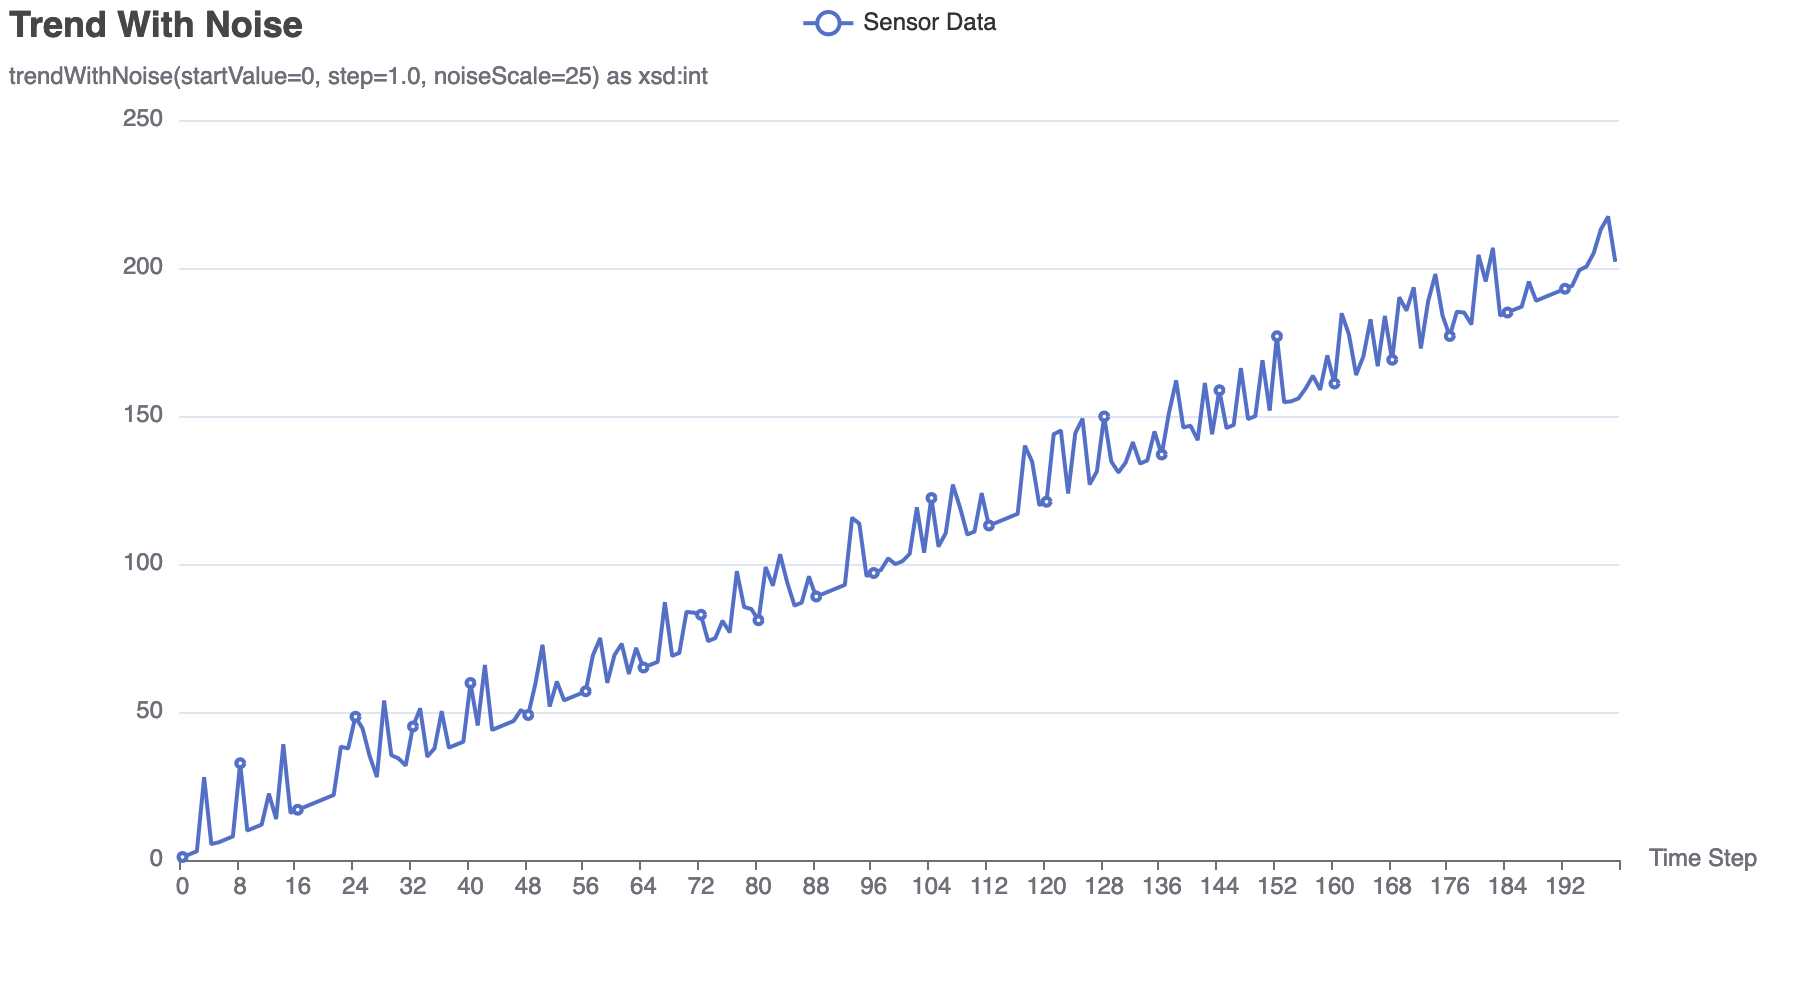
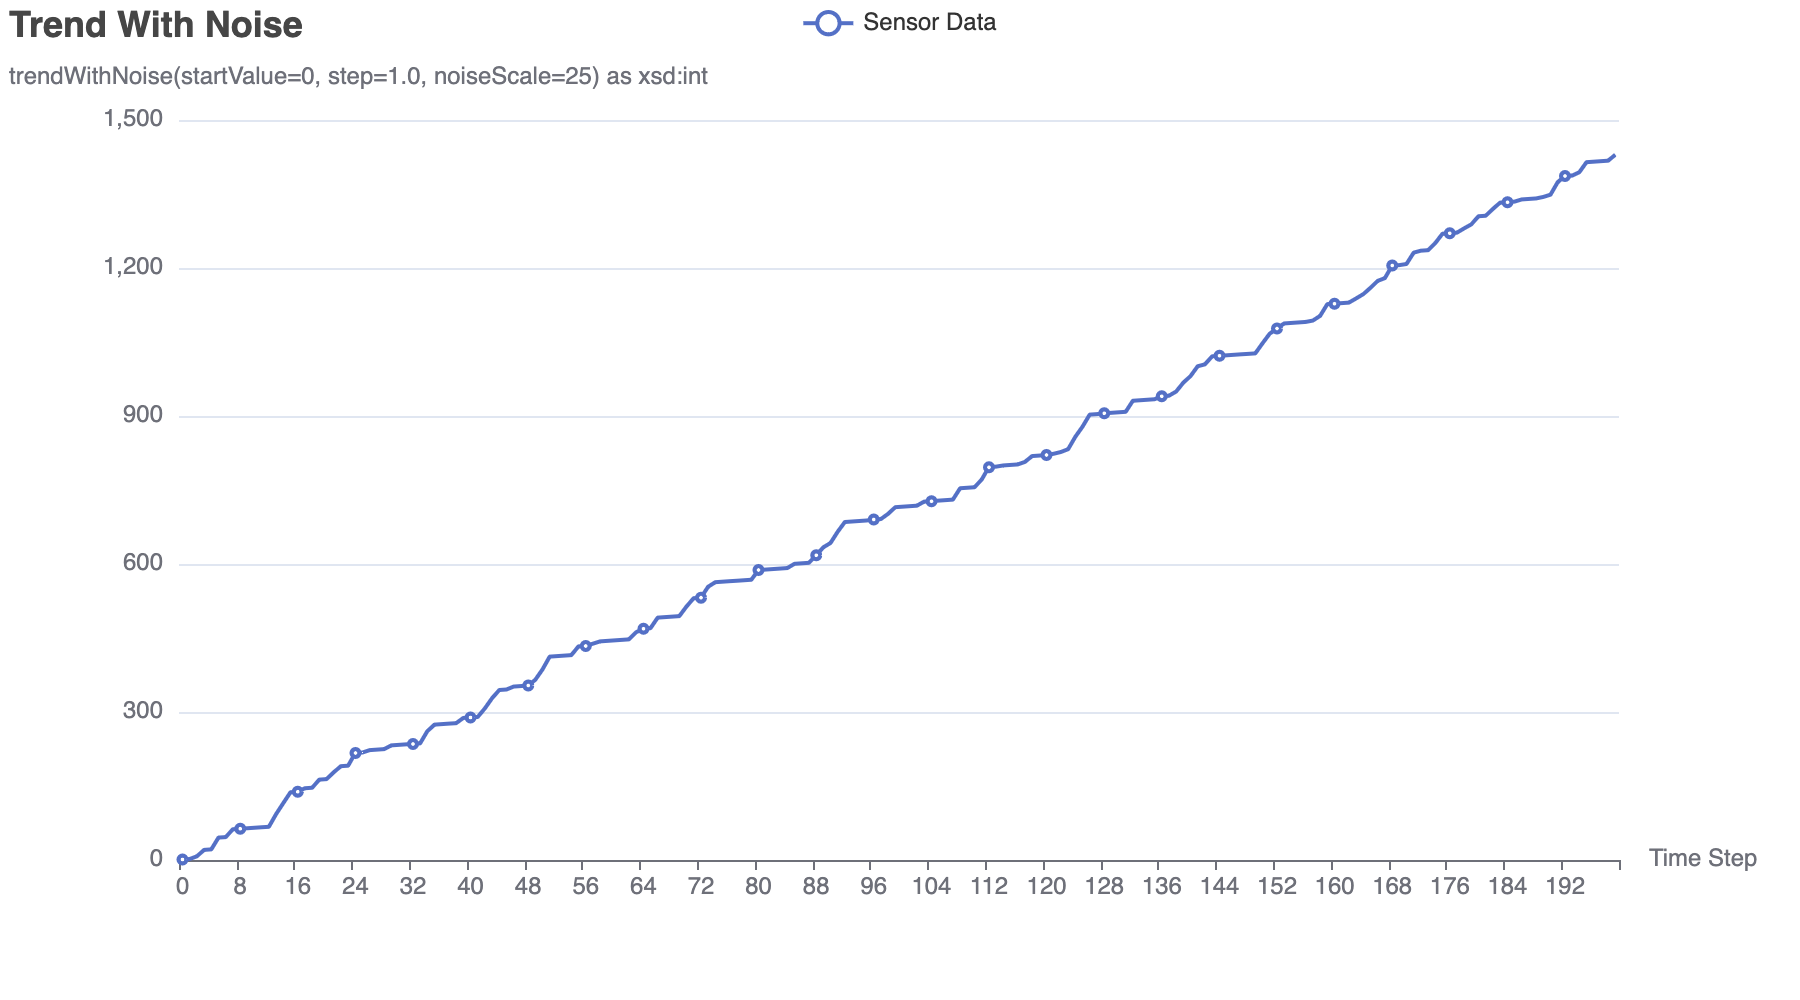
Ever increasing Trend with Noise generator values (#34)

diff --git a/datamodel/noise/generator.go b/datamodel/noise/generator.go
@@ -107,16 +107,18 @@ func PerlinNoise(offset, alpha, beta float64, scale float64) Generator {
 //   - noiseScale: The amplitude of the random noise added to the trend.
 //     Determines the intensity of the noise.
 func TrendWithNoise(startValue, step, noiseScale float64) func() float64 {
-	value := startValue
+	prevValue := startValue
 	return func() float64 {
-		value += step
+		newValue := prevValue + step
 		// nolint:gosec
 		// It's okay to use the default random number generator here.
 		noise := (rand.Float64()*2 - 1) * noiseScale
 		if step < 0 {
-			return min(value, value+noise)
+			newValue = min(newValue, newValue+noise)
 		}
-		return max(value, value+noise)
+		newValue = max(newValue, newValue+noise)
+		prevValue = newValue
+		return newValue
 	}
 }
 
